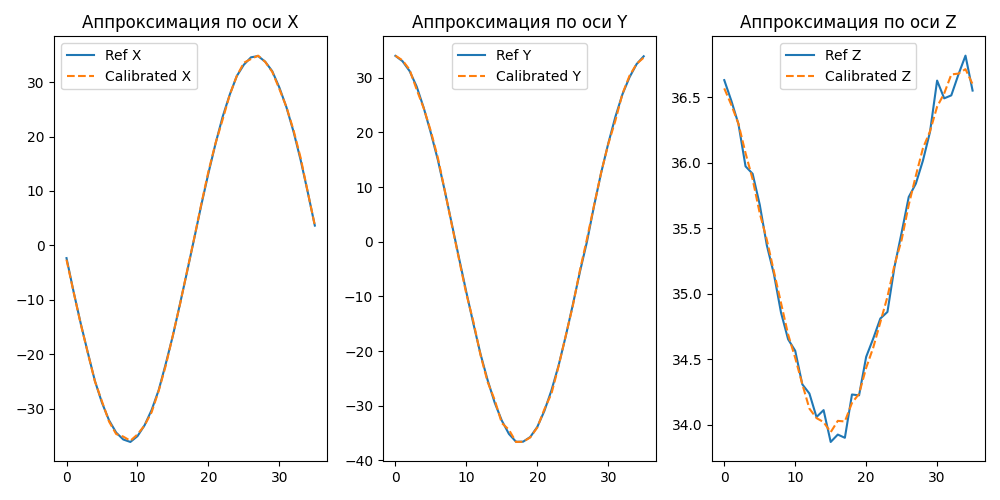
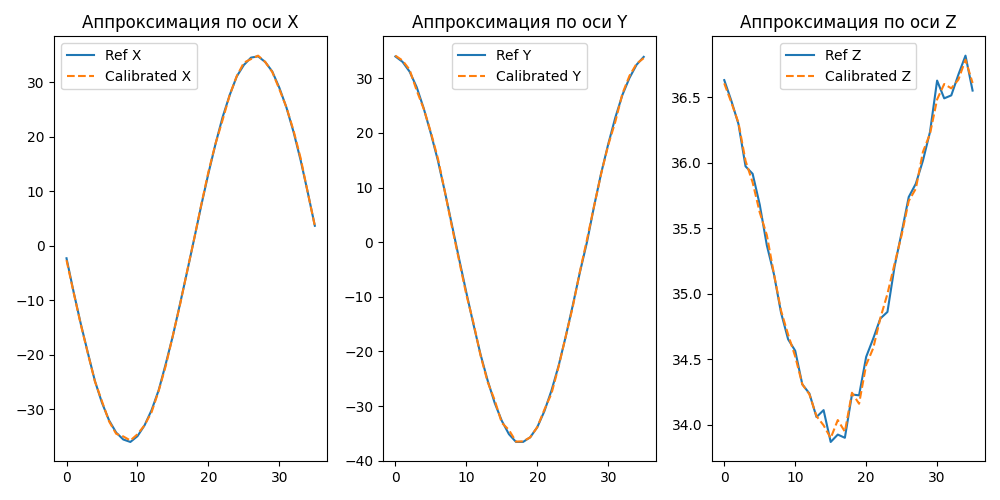
update generate_data.py

diff --git a/calibrate.py b/calibrate.py
@@ -43,12 +43,22 @@ A = A_scaled / scale[:, None]
 M_calibrated = (M_raw_corrected - b) @ A
 
 # === НЕЛИНЕЙНАЯ КОРРЕКЦИЯ ===
-residuals = M_calibrated - M_ref
 x, y, z = M_calibrated[:, 0], M_calibrated[:, 1], M_calibrated[:, 2]
-X_nl = np.column_stack([x**2, y**2, z**2, x*y, x*z, y*z])
-models = [LinearRegression().fit(X_nl, residuals[:, i]) for i in range(3)]
-nonlinear_corr = np.column_stack([models[i].predict(X_nl) for i in range(3)])
-M_calibrated -= nonlinear_corr
+
+X_nl_z = np.column_stack([
+    x**2, y**2, z**2,
+    x*y, x*z, y*z,
+    x**3, y**3, z**3,
+    x * z**2, y * z**2,
+    x * y**2, x**2 * y, x**2 * z, y**2 * z
+])
+
+residual_z = M_calibrated[:, 2] - M_ref[:, 2]
+model_z = LinearRegression().fit(X_nl_z, residual_z)
+nonlinear_corr_z = model_z.predict(X_nl_z)
+
+M_calibrated[:, 2] -= nonlinear_corr_z
+
 
 # === ОЦЕНКА КАЧЕСТВА ===
 error = np.linalg.norm(M_calibrated - M_ref, axis=1)
@@ -97,8 +107,11 @@ plt.close()
 calibration = {
     "bias": b.tolist(),
     "A": A.tolist(),
-    "nonlinear_coeffs": [m.coef_.tolist() for m in models],
-    "nonlinear_intercepts": [m.intercept_ for m in models],
+    "nonlinear_coeffs": [m.coef_.tolist() for m in model_z],
+    "nonlinear_z_model": {
+        "coefficients": model_z.coef_.tolist(),
+        "intercept": model_z.intercept_
+    },
     "temperature_ref": T_ref,
     "bias_temp_coef": bias_temp_coef.tolist(),
     "sens_temp_coef": sens_temp_coef.tolist()
